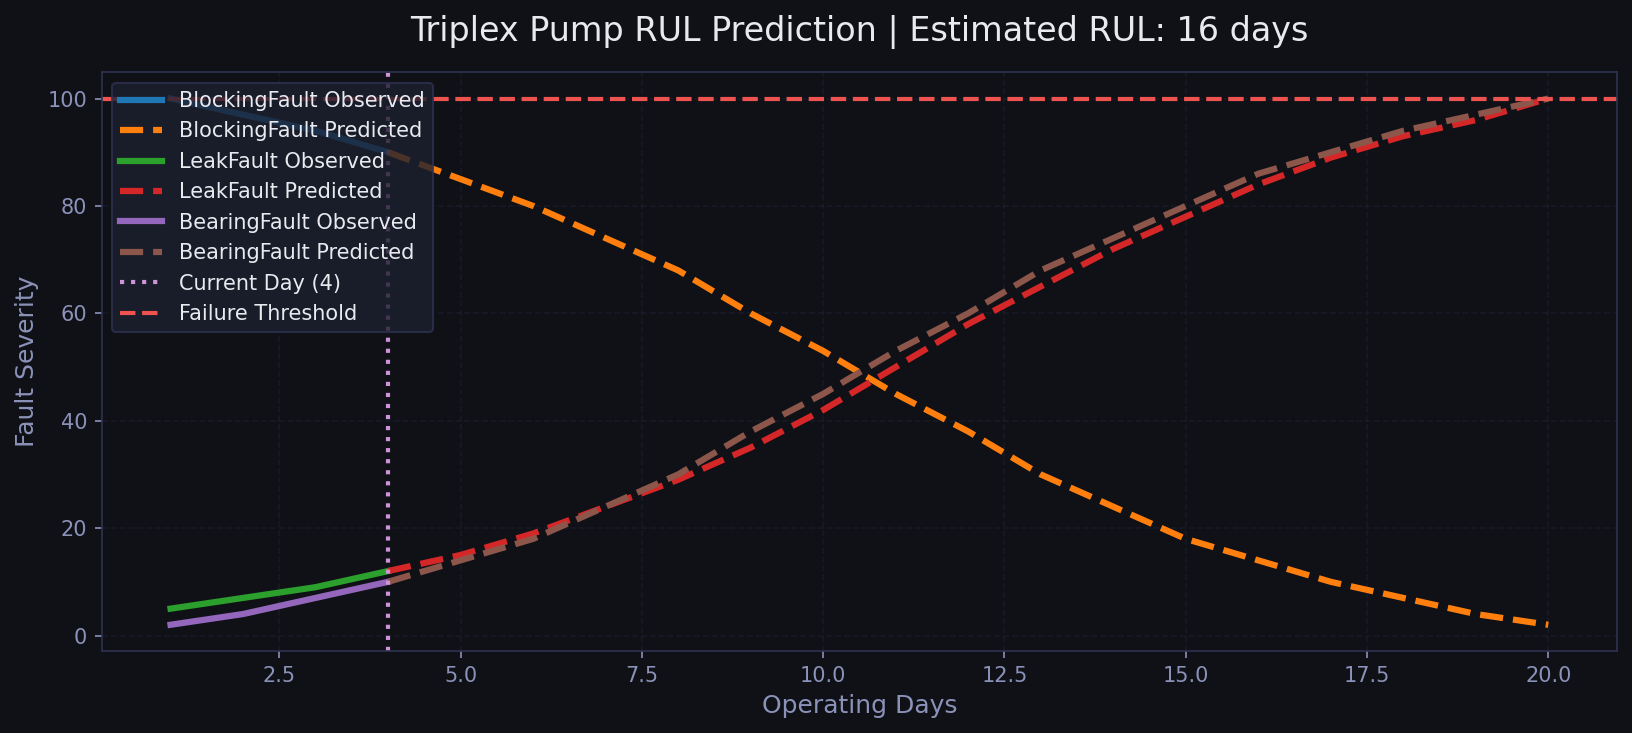
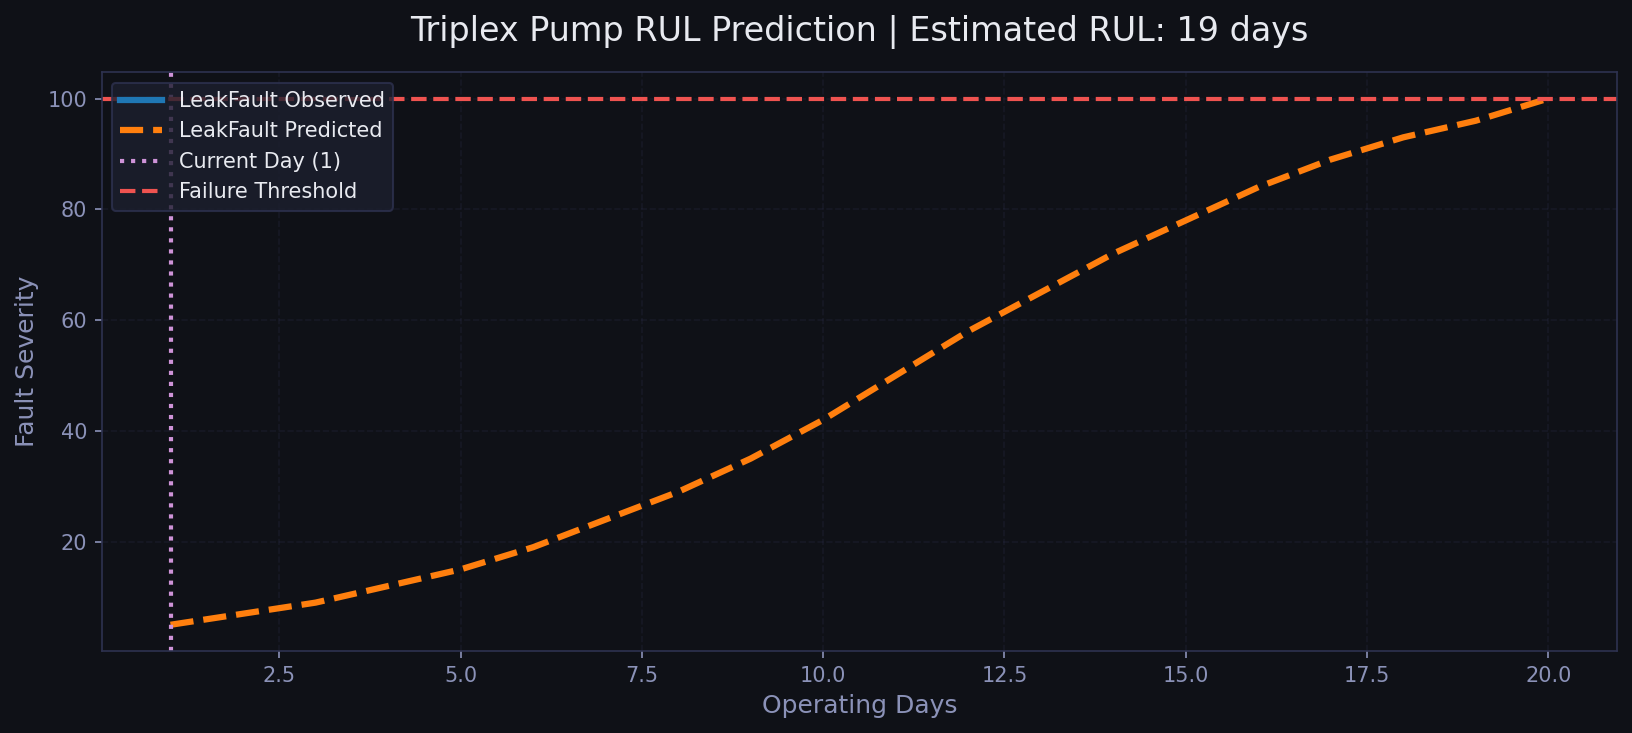
changes made

diff --git a/new/backend/app.py b/new/backend/app.py
@@ -6,6 +6,7 @@ from ml_pipeline import *
 import pandas as pd
 from flask import send_file
 import matplotlib
+import os
 
 matplotlib.use('Agg')
 import matplotlib.pyplot as plt
@@ -23,33 +24,24 @@ def home():
 
 
 
+
+
 @app.route('/simulate', methods=['POST'])
 def simulate():
 
-    print("Starting MATLAB...")
+    print("Opening MATLAB...")
 
-    data = request.json
+    matlab_path = r"C:\Program Files\MATLAB\R2026a\bin\matlab.exe"
 
-    selected_faults = data['faults']
+    subprocess.Popen([
+        matlab_path,
+        "-r",
+        "run('C:/project/XAI_in_predictive_maintenance/new/backend/matlab/simulate.m'); exit;"
+    ])
 
-    current_day = data['currentDay']
-
-    print(selected_faults)
-    print(current_day)
-
-    subprocess.run(
-        [
-            "matlab",
-            "-batch",
-            "run('C:/project/XAI_in_predictive_maintenance/new/backend/matlab/simulate.m')"
-        ]
-    )
-
-    print("MATLAB Finished")
-
-    df = pd.read_csv(
-    "C:/project/XAI_in_predictive_maintenance/new/backend/matlab/simulation_output.csv"
-)
+    return jsonify({
+        "message": "Simulation Started"
+    })
     # DAYS
     days = list(range(1, 21))
 

diff --git a/new/backend/matlab/simulate.m b/new/backend/matlab/simulate.m
@@ -7,10 +7,10 @@ fault = repmat("Bearing Fault",20,1);
 
 T = table(time, pressure, temperature, fault);
 
-writetable(T, 'C:/project/backend/matlab/simulation_output.csv');
+writetable(T, 'C:/project/XAI_in_predictive_maintenance/new/backend/matlab/simulation_output.csv');
 
 
 
-saveas(gcf, 'C:/project/backend/matlab/graph.png');
+
 
 disp("CSV Generated")